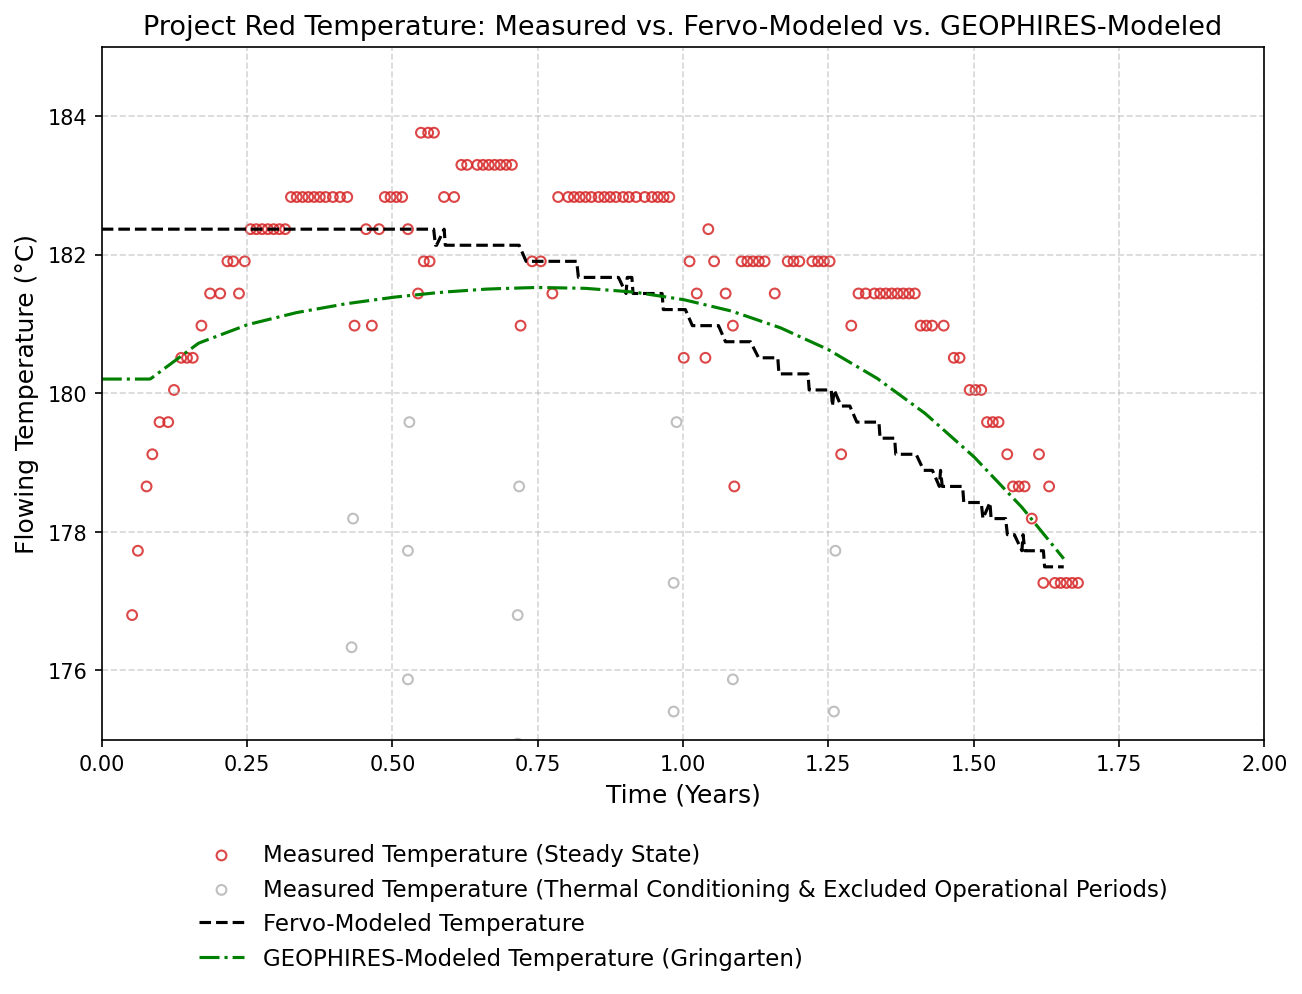
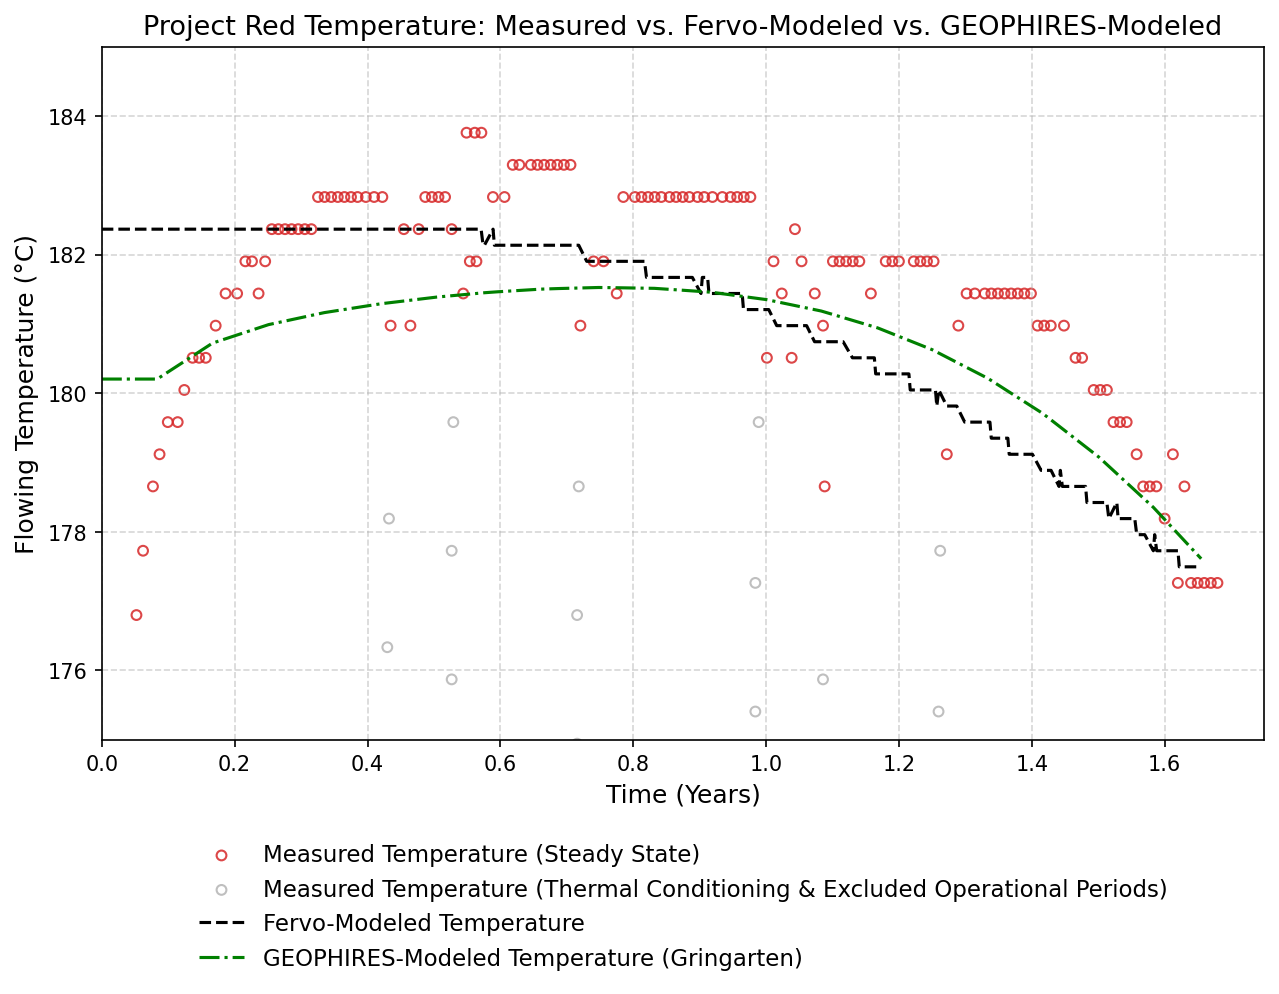
set x-axis max to 1.75 years

diff --git a/src/geophires_docs/generate_fervo_project_red_2026_docs.py b/src/geophires_docs/generate_fervo_project_red_2026_docs.py
@@ -321,7 +321,7 @@ def _generate_production_temperature_comparison_graph(
         title = 'Project Red Temperature: Measured vs. Fervo-Modeled vs. GEOPHIRES-Modeled'
     ax.set_title(title, fontsize=13)
 
-    ax.set_xlim(0.0, 2.0)
+    ax.set_xlim(0.0, 1.75)
 
     ax.grid(True, linestyle='--', alpha=0.5)
 
